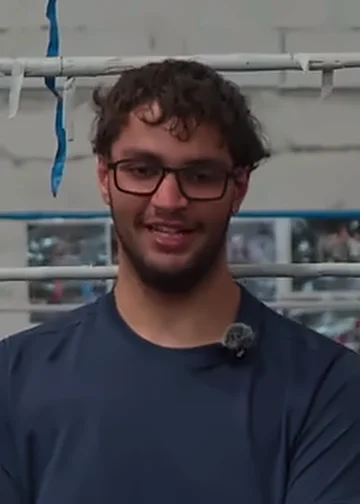
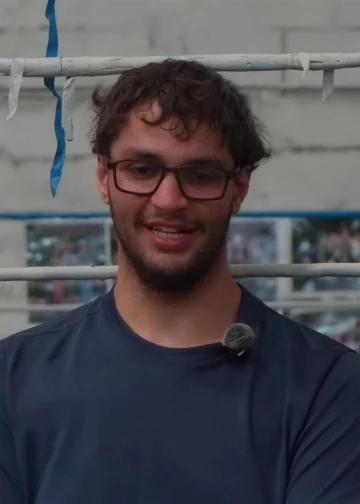
stage : la photo de Fayez Draoui retravaillée avec Higgsfield, nette sur sa carte
Même image de la vidéo du club (65,5 s, étiquettes du jeu effacées), agrandie par Higgsfield (2160 × 3003) puis réduite au format des cartes : cheveux, lunettes, barbe et t-shirt nets, visage inchangé.

diff --git a/src/data/clubs.js b/src/data/clubs.js
@@ -52,7 +52,7 @@ export const INTERVENANTS = {
     photo: 'mehdi',
   },
   // le club, 13/10/2026 : leur palmarès remplace les phrases. Fayez : image de la vidéo du club (désigné par Eddy,
-  // étiquettes du jeu effacées) ; Lucas : pas encore de photo
+  // étiquettes du jeu effacées, agrandie avec Higgsfield) ; Lucas : pas encore de photo
   fayez: {
     nom: 'Fayez Draoui',
     court: 'Fayez',
